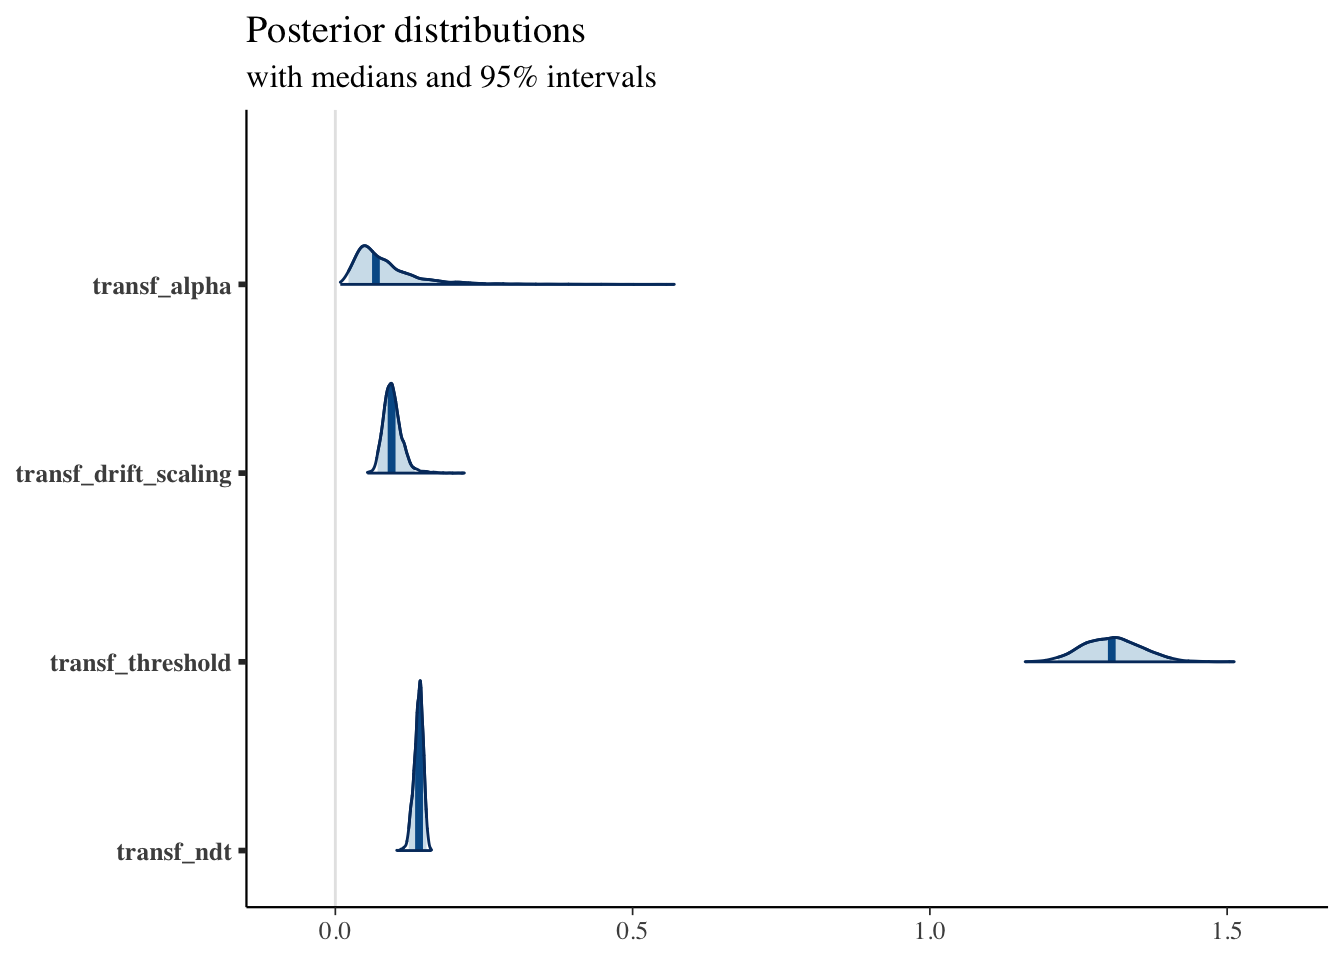
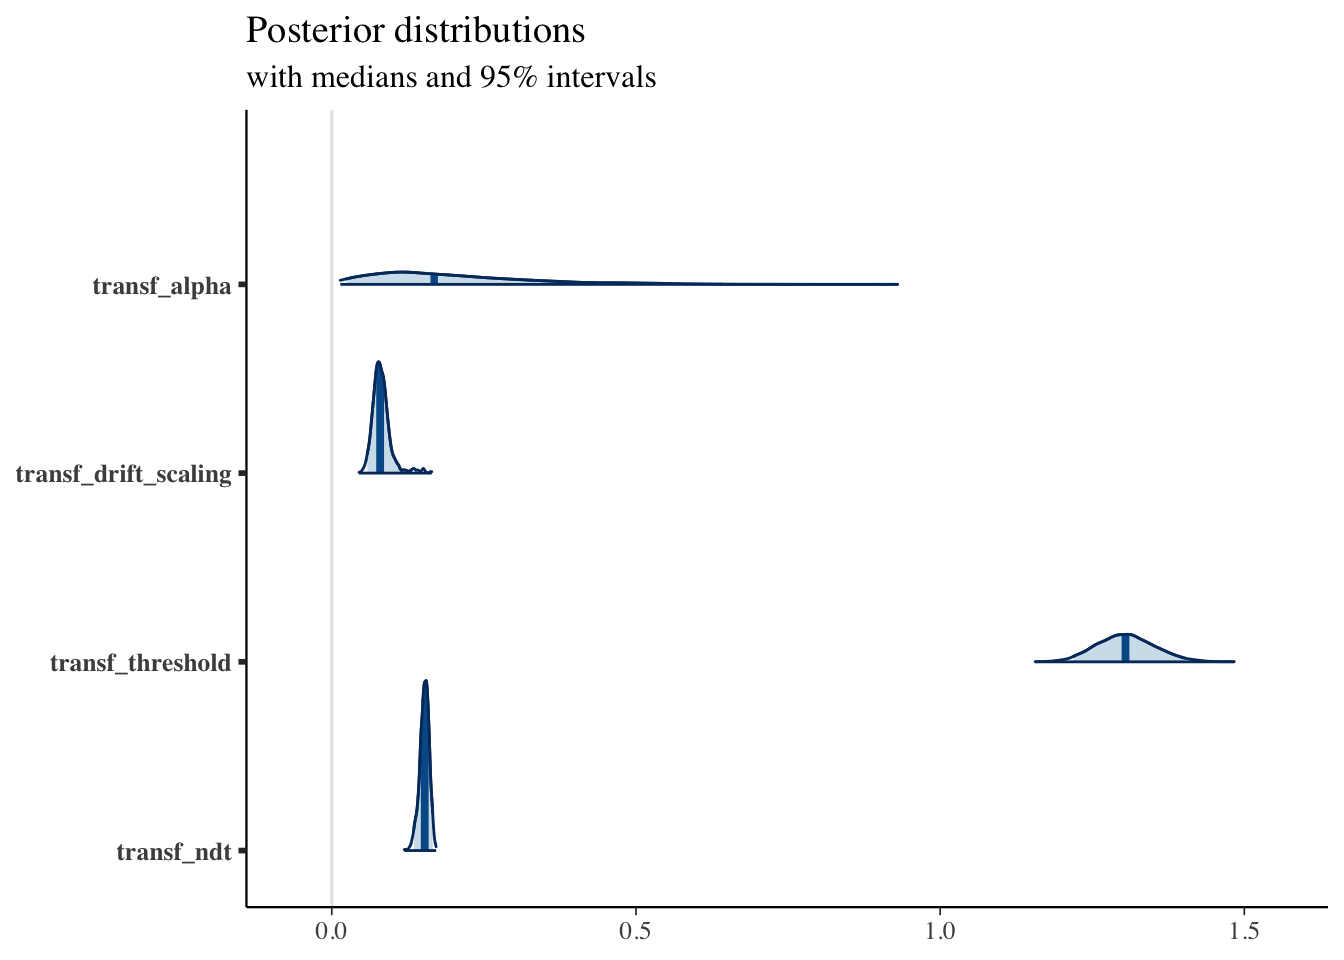
fixed figures

diff --git a/docs/RLDM.html b/docs/RLDM.html
@@ -358,12 +358,12 @@ library(bayesplot)</code></pre>
 ## 4       4   54  5</code></pre>
 <pre class="r"><code>head(stimuli)</code></pre>
 <pre><code>##   trial trial_type inc_option cor_option f_inc f_cor
-## 1     1        1-2          1          2    30    37
-## 2     2        1-3          1          3    27    46
-## 3     3        2-4          2          4    35    47
-## 4     4        3-4          3          4    63    61
-## 5     5        1-2          1          2    22    33
-## 6     6        1-3          1          3    24    60</code></pre>
+## 1     1        1-2          1          2    32    31
+## 2     2        1-3          1          3    30    47
+## 3     3        2-4          2          4    30    62
+## 4     4        3-4          3          4    46    54
+## 5     5        1-2          1          2    30    43
+## 6     6        1-3          1          3    25    47</code></pre>
 <pre class="r"><code>stimuli_for_plotting &lt;- pivot_longer(stimuli, cols=c(f_inc, f_cor), names_to = &quot;option&quot;, names_prefix = &quot;f_&quot;, values_to=&quot;feedback&quot;)
 
 ggplot(data = stimuli_for_plotting, aes(x = trial, y = feedback, color=option))+
@@ -453,25 +453,32 @@ random_rldm &lt;- function(stimuli, alpha, drift_scaling, threshold, ndt, rel_sp
 <pre class="r"><code>sim_data &lt;- random_rldm(stimuli, alpha = .03, drift_scaling = .1, threshold = 1.2, ndt=.15)
 
 head(sim_data)</code></pre>
-<pre><code>##   trial trial_type inc_option cor_option f_inc f_cor   Q_cor    Q_inc     drift threshold  ndt accuracy    rt
-## 1     1        1-2          1          2    30    37 20.0000 20.00000  0.000000       1.2 0.15        0 0.250
-## 2     2        1-3          1          3    27    46 20.0000 20.30000 -0.030000       1.2 0.15        0 1.832
-## 3     3        2-4          2          4    35    47 20.0000 20.51000 -0.051000       1.2 0.15        0 0.372
-## 4     4        3-4          3          4    63    61 20.8100 20.78000  0.003000       1.2 0.15        0 1.690
-## 5     5        1-2          1          2    22    33 20.9447 20.50100  0.044370       1.2 0.15        1 0.348
-## 6     6        1-3          1          3    24    60 22.0466 20.54597  0.150063       1.2 0.15        1 0.285</code></pre>
+<pre><code>##   trial trial_type inc_option cor_option f_inc f_cor   Q_cor    Q_inc
+## 1     1        1-2          1          2    32    31 20.0000 20.00000
+## 2     2        1-3          1          3    30    47 20.0000 20.36000
+## 3     3        2-4          2          4    30    62 20.0000 20.33000
+## 4     4        3-4          3          4    46    54 21.2600 20.81000
+## 5     5        1-2          1          2    30    43 20.6201 20.64920
+## 6     6        1-3          1          3    25    47 21.5657 20.92972
+##        drift threshold  ndt accuracy    rt
+## 1  0.0000000       1.2 0.15        0 1.184
+## 2 -0.0360000       1.2 0.15        1 0.289
+## 3 -0.0330000       1.2 0.15        1 0.659
+## 4  0.0450000       1.2 0.15        0 1.172
+## 5 -0.0029100       1.2 0.15        1 0.423
+## 6  0.0635976       1.2 0.15        1 0.254</code></pre>
 <p>First, we can have a look at the average performance across trial-types. Note that, since the threshold was not modulated, the same performance is predicted across magnitudes:</p>
 <pre class="r"><code>sim_data$trial_bin &lt;- cut(sim_data$trial,
                           breaks = seq(min(sim_data$trial), max(sim_data$trial), length.out=7),
                           include.lowest = TRUE)
 
-ggplot(data = sim_data, aes(x = trial_type, y = rt, fill=trial_type))+
-  stat_summary(fun = &quot;mean&quot;, geom=&quot;bar&quot;, position = &#39;dodge&#39;) +
-  stat_summary(fun.data = mean_cl_normal, geom = &quot;errorbar&quot;,  size=.2, width=.9, position = &#39;dodge&#39;)</code></pre>
+ggplot(data = sim_data, aes(x = trial_type, y = rt,  color=trial_type))+
+  stat_summary(fun = &quot;mean&quot;, geom=&quot;point&quot;, size=4) +
+  stat_summary(fun.data = mean_cl_normal, geom = &quot;errorbar&quot;,  size=.3, width=.3)</code></pre>
 <p><img src="RLDM_files/figure-html/unnamed-chunk-6-1.png" width="672" /></p>
-<pre class="r"><code>ggplot(data = sim_data, aes(x = trial_type, y = accuracy, fill=trial_type))+
-  stat_summary(fun = &quot;mean&quot;, geom=&quot;bar&quot;, position = &#39;dodge&#39;) +
-  stat_summary(fun.data = mean_cl_normal, geom = &quot;errorbar&quot;,  size=.2, width=.9, position = &#39;dodge&#39;)</code></pre>
+<pre class="r"><code>ggplot(data = sim_data, aes(x = trial_type, y = accuracy, color=trial_type))+
+  stat_summary(fun = &quot;mean&quot;, geom=&quot;point&quot;, size=4) +
+  stat_summary(fun.data = mean_cl_normal, geom = &quot;errorbar&quot;,  size=.3, width=.3)</code></pre>
 <p><img src="RLDM_files/figure-html/unnamed-chunk-6-2.png" width="672" /></p>
 <p>While we kept both the threshold and ndt fixed, the drift-rates evolves with learning:</p>
 <pre class="r"><code>ggplot(data = sim_data, aes(x = trial, y = drift, color=trial_type))+
@@ -534,14 +541,14 @@ sim_data[sim_data$accuracy == 1, &quot;response&quot;] = &quot;upper&quot;
 starting_values = c(.5, .1, 2, .2) # set some starting values
 
 print(log_likelihood_rldm(starting_values, data=sim_data)) # check that starting values are plausible</code></pre>
-<pre><code>## [1] -581.763</code></pre>
+<pre><code>## [1] -431.8875</code></pre>
 <pre class="r"><code>fit1 &lt;- nmkb(par = starting_values,
              fn = function (x) log_likelihood_rldm(x, data=sim_data),
              lower = c(0, -10, 0, 0),
              upper = c(1, 10, 10, 5),
              control = list(maximize = TRUE))
 print(fit1$par) # print estimated parameters</code></pre>
-<pre><code>## [1] 0.04440228 0.10360590 1.30074250 0.14229977</code></pre>
+<pre><code>## [1] 0.06628673 0.08896020 1.30031476 0.15414672</code></pre>
 </div>
 <div id="parameter-recovery-with-stan" class="section level2">
 <h2>Parameter Recovery with stan</h2>
@@ -579,12 +586,12 @@ sim_data_for_stan = list(
 ## post-warmup draws per chain=2000, total post-warmup draws=4000.
 ## 
 ##                      mean se_mean   sd 2.5%  25%  50%  75% 97.5% n_eff Rhat
-## transf_alpha         0.08       0 0.06 0.02 0.05 0.07 0.10  0.25  1640    1
-## transf_drift_scaling 0.10       0 0.02 0.07 0.09 0.09 0.10  0.13  1888    1
-## transf_threshold     1.31       0 0.05 1.22 1.27 1.31 1.34  1.41  1840    1
-## transf_ndt           0.14       0 0.01 0.12 0.14 0.14 0.15  0.15  1800    1
+## transf_alpha         0.20       0 0.14 0.02 0.10 0.17 0.27  0.54  1267 1.00
+## transf_drift_scaling 0.08       0 0.02 0.06 0.07 0.08 0.09  0.13   258 1.01
+## transf_threshold     1.31       0 0.05 1.22 1.27 1.30 1.34  1.40  1676 1.00
+## transf_ndt           0.15       0 0.01 0.13 0.15 0.15 0.16  0.17  1912 1.00
 ## 
-## Samples were drawn using NUTS(diag_e) at Wed Sep  8 23:26:19 2021.
+## Samples were drawn using NUTS(diag_e) at Thu Sep  9 12:33:09 2021.
 ## For each parameter, n_eff is a crude measure of effective sample size,
 ## and Rhat is the potential scale reduction factor on split chains (at 
 ## convergence, Rhat=1).</code></pre>
@@ -594,13 +601,20 @@ sim_data_for_stan = list(
 <p><img src="RLDM_files/figure-html/unnamed-chunk-14-1.png" width="672" /></p>
 <pre class="r"><code>sampler_params &lt;- get_sampler_params(fit1, inc_warmup = TRUE)
 summary(do.call(rbind, sampler_params), digits = 2)</code></pre>
-<pre><code>##  accept_stat__    stepsize__       treedepth__   n_leapfrog__  divergent__        energy__    
-##  Min.   :0.00   Min.   :6.2e-05   Min.   :0.0   Min.   :  1   Min.   :0.0000   Min.   :   69  
-##  1st Qu.:0.91   1st Qu.:3.0e-01   1st Qu.:3.0   1st Qu.:  7   1st Qu.:0.0000   1st Qu.:   72  
-##  Median :0.97   Median :3.6e-01   Median :3.0   Median :  7   Median :0.0000   Median :   73  
-##  Mean   :0.90   Mean   :3.9e-01   Mean   :2.9   Mean   : 10   Mean   :0.0058   Mean   :  129  
-##  3rd Qu.:0.99   3rd Qu.:3.6e-01   3rd Qu.:3.0   3rd Qu.: 15   3rd Qu.:0.0000   3rd Qu.:   74  
-##  Max.   :1.00   Max.   :1.4e+01   Max.   :8.0   Max.   :255   Max.   :1.0000   Max.   :16935</code></pre>
+<pre><code>##  accept_stat__    stepsize__      treedepth__   n_leapfrog__    divergent__    
+##  Min.   :0.00   Min.   :0.0045   Min.   :0.0   Min.   :  1.0   Min.   :0.0000  
+##  1st Qu.:0.84   1st Qu.:0.4622   1st Qu.:2.0   1st Qu.:  7.0   1st Qu.:0.0000  
+##  Median :0.95   Median :0.4834   Median :3.0   Median :  7.0   Median :0.0000  
+##  Mean   :0.84   Mean   :0.5071   Mean   :2.7   Mean   :  7.9   Mean   :0.0053  
+##  3rd Qu.:0.99   3rd Qu.:0.4834   3rd Qu.:3.0   3rd Qu.:  7.0   3rd Qu.:0.0000  
+##  Max.   :1.00   Max.   :9.9048   Max.   :6.0   Max.   :127.0   Max.   :1.0000  
+##     energy__  
+##  Min.   : 79  
+##  1st Qu.: 81  
+##  Median : 82  
+##  Mean   : 83  
+##  3rd Qu.: 84  
+##  Max.   :754</code></pre>
 <p>More plotting:</p>
 <pre class="r"><code>posterior &lt;- as.matrix(fit1)
 
